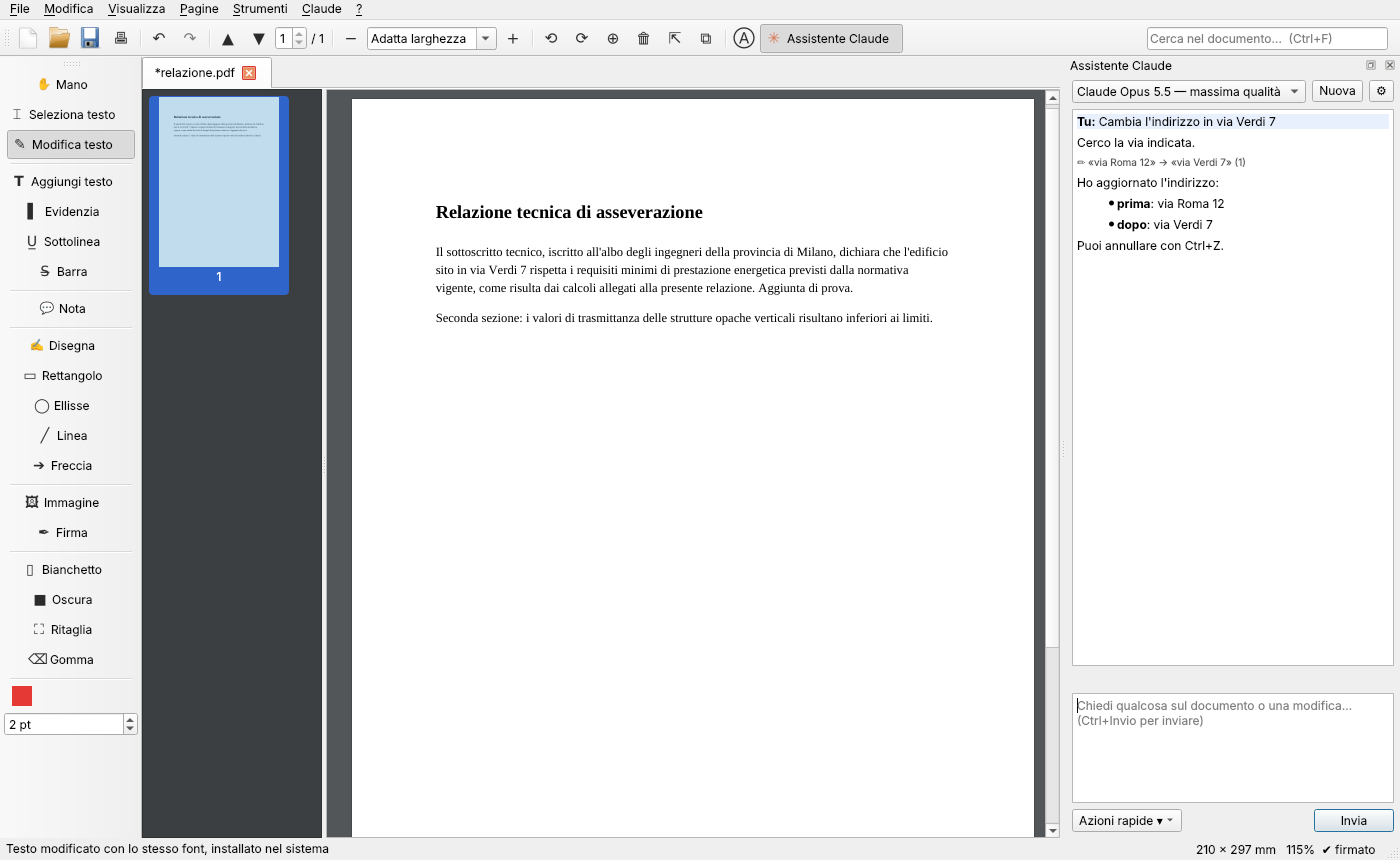
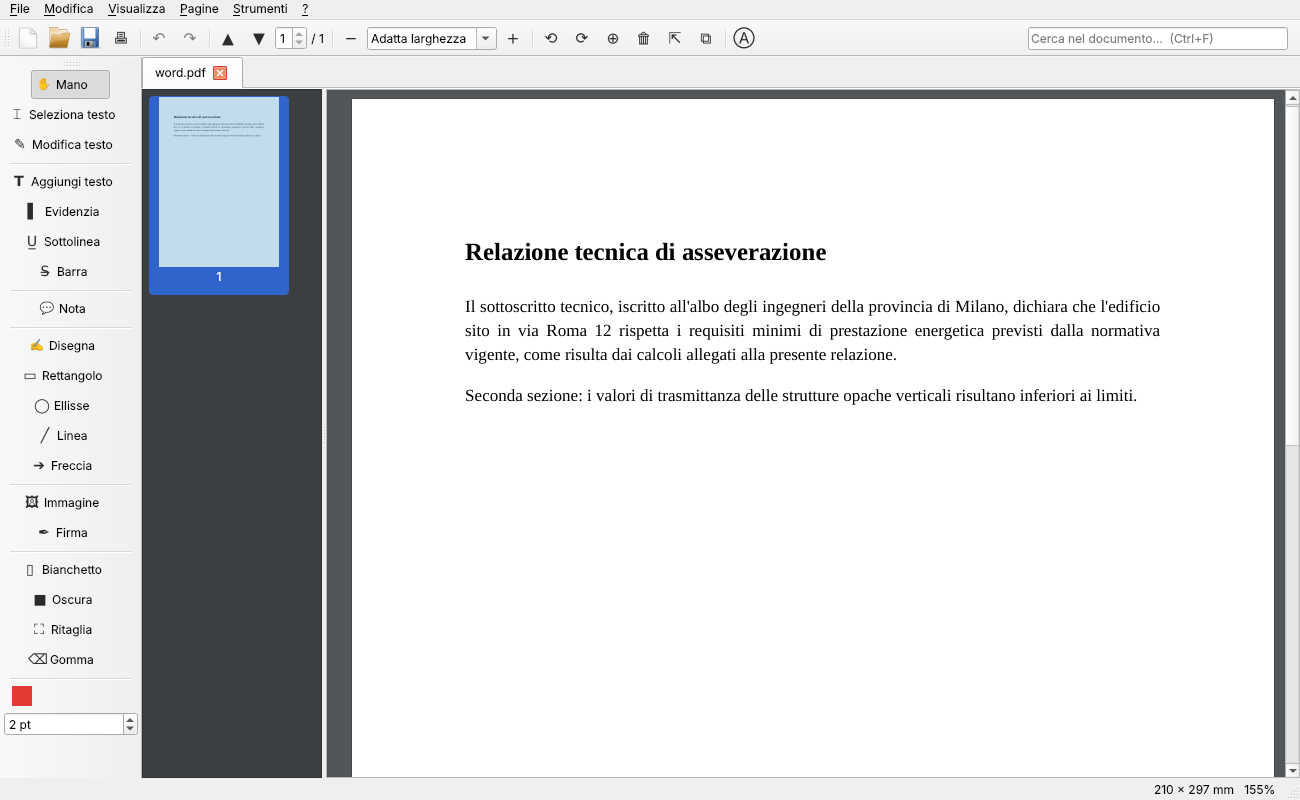
Release 1.1.0: disattiva l'assistente Claude e pubblica la release
L'assistente resta nel codice dietro CLAUDE_ENABLED. Il workflow
pubblica installer e versione portabile come GitHub Release sui tag v*.

Claude-Session: https://claude.ai/code/session_01WgaDCZspcTgUwUSrwtYZSK

Changed region(s): [[0.0, 0.0, 1.0, 1.0]]

diff --git a/pdf_studio/pdfstudio/mainwindow.py b/pdf_studio/pdfstudio/mainwindow.py
@@ -12,7 +12,7 @@ from PySide6.QtWidgets import (QApplication, QColorDialog, QComboBox, QFileDialo
                                QInputDialog, QLabel, QLineEdit, QMainWindow, QMessageBox, QProgressDialog,
                                QSizePolicy, QSpinBox, QSplitter, QStyle, QTabWidget, QToolBar, QToolButton, QWidget)
 
-from . import __version__
+from . import CLAUDE_ENABLED, __version__
 from . import viewer as V
 from .dialogs import (CompressDialog, ExportImagesDialog, FindReplaceDialog, FormFieldDialog, MergeDialog,
                       MetadataDialog, PdfADialog, SignaturesDialog,
@@ -140,7 +140,8 @@ class MainWindow(QMainWindow):
         self._create_menus()
         self._create_toolbars()
         self._create_statusbar()
-        self._create_assistant()
+        if CLAUDE_ENABLED:
+            self._create_assistant()
         geo = self.settings.value("geometry")
         if geo is not None:
             self.restoreGeometry(geo)
@@ -319,9 +320,10 @@ class MainWindow(QMainWindow):
         for a in (self.a_watermark, self.a_pagenums, self.a_flatten, self.a_ocr):
             m.addAction(a)
 
-        m = mb.addMenu("&Claude")
-        m.addAction(self.a_claude)
-        m.addAction(self.a_claude_settings)
+        if CLAUDE_ENABLED:
+            m = mb.addMenu("&Claude")
+            m.addAction(self.a_claude)
+            m.addAction(self.a_claude_settings)
 
         m = mb.addMenu("&?")
         m.addAction(self.a_about)
@@ -357,8 +359,9 @@ class MainWindow(QMainWindow):
             tb.addAction(a)
         tb.addSeparator()
         tb.addAction(self.a_pdfa)
-        tb.addAction(self.a_claude)
-        btn = tb.widgetForAction(self.a_claude)
+        if CLAUDE_ENABLED:
+            tb.addAction(self.a_claude)
+        btn = tb.widgetForAction(self.a_claude) if CLAUDE_ENABLED else None
         if btn is not None:
             btn.setToolButtonStyle(Qt.ToolButtonTextBesideIcon)
         spacer = QWidget()

diff --git a/pdf_studio/pdfstudio/__init__.py b/pdf_studio/pdfstudio/__init__.py
@@ -1,2 +1,5 @@
 """PDF Studio — lettore ed editor PDF per Windows."""
 __version__ = "1.1.0"
+
+# Assistente Claude: disattivato in questa versione (il codice resta pronto per una release futura)
+CLAUDE_ENABLED = False

diff --git a/pdf_studio/RELEASE_NOTES.md b/pdf_studio/RELEASE_NOTES.md
@@ -1,0 +1,21 @@
+## PDF Studio 1.1.0
+
+Lettore ed editor PDF per Windows.
+
+### Download
+- **PDFStudio-Setup-1.1.0.exe** — installer (consigliato): menu Start, icona sul desktop, associazione facoltativa di `.pdf` e `.p7m`.
+- **PDFStudio-portabile-v1.1.0.zip** — versione da scompattare e avviare con `PDFStudio.exe`, senza installazione.
+
+Al primo avvio Windows può mostrare «Windows ha protetto il PC» (programma senza firma digitale): *Ulteriori informazioni → Esegui comunque*.
+
+### Novità
+- **Modifica del testo esistente** direttamente sulla pagina, con a capo automatico e font originale; modifica di singole righe (Maiusc+clic); **Trova e sostituisci** (Ctrl+H).
+- **File firmati .p7m**: apertura, elenco dei firmatari e verifica di integrità delle firme; estrazione dei contenuti non PDF (es. fatture XML).
+- **Salva come PDF/A** (1b, 2b, 3b), con Ghostscript incluso; file validati con veraPDF.
+
+### Funzioni già presenti
+Lettura e ricerca, commenti ed evidenziazioni, disegno e forme, firma grafica, bianchetto e oscuramento, moduli compilabili, gestione pagine (ruota, elimina, riordina, estrai, dividi, unisci), PDF da immagini, filigrana, numeri di pagina, password, riduzione dimensione, esportazione in immagini, testo e Word.
+
+### Note
+- La verifica dei .p7m controlla l'integrità crittografica, non l'attendibilità del certificatore né la revoca del certificato.
+- In PDF/A-1b le pagine con trasparenze vengono convertite in immagini: preferire PDF/A-2b.

diff --git a/pdf_studio/README.md b/pdf_studio/README.md
@@ -32,7 +32,7 @@ Lettore ed editor PDF per Windows, in stile Adobe Acrobat. Scritto in Python con
 - *File → Salva come PDF/A*: PDF/A-1b, 2b (consigliato) e 3b tramite Ghostscript, incluso nell'installer
 - Riconosce i file PDF/A aperti (indicato nella barra di stato)
 
-**Assistente Claude** (menu *Claude* o Ctrl+Maiusc+A)
+**Assistente Claude** — *non attivo nella versione 1.1* (si abilita con `CLAUDE_ENABLED` in `pdfstudio/__init__.py`)
 - Domande sul documento: riassunti, estrazione dati, controllo errori, traduzioni
 - Modifiche su richiesta: sostituire testo, riscrivere paragrafi, evidenziare, aggiungere note,
   compilare moduli, ruotare o eliminare pagine — tutte annullabili con Ctrl+Z
